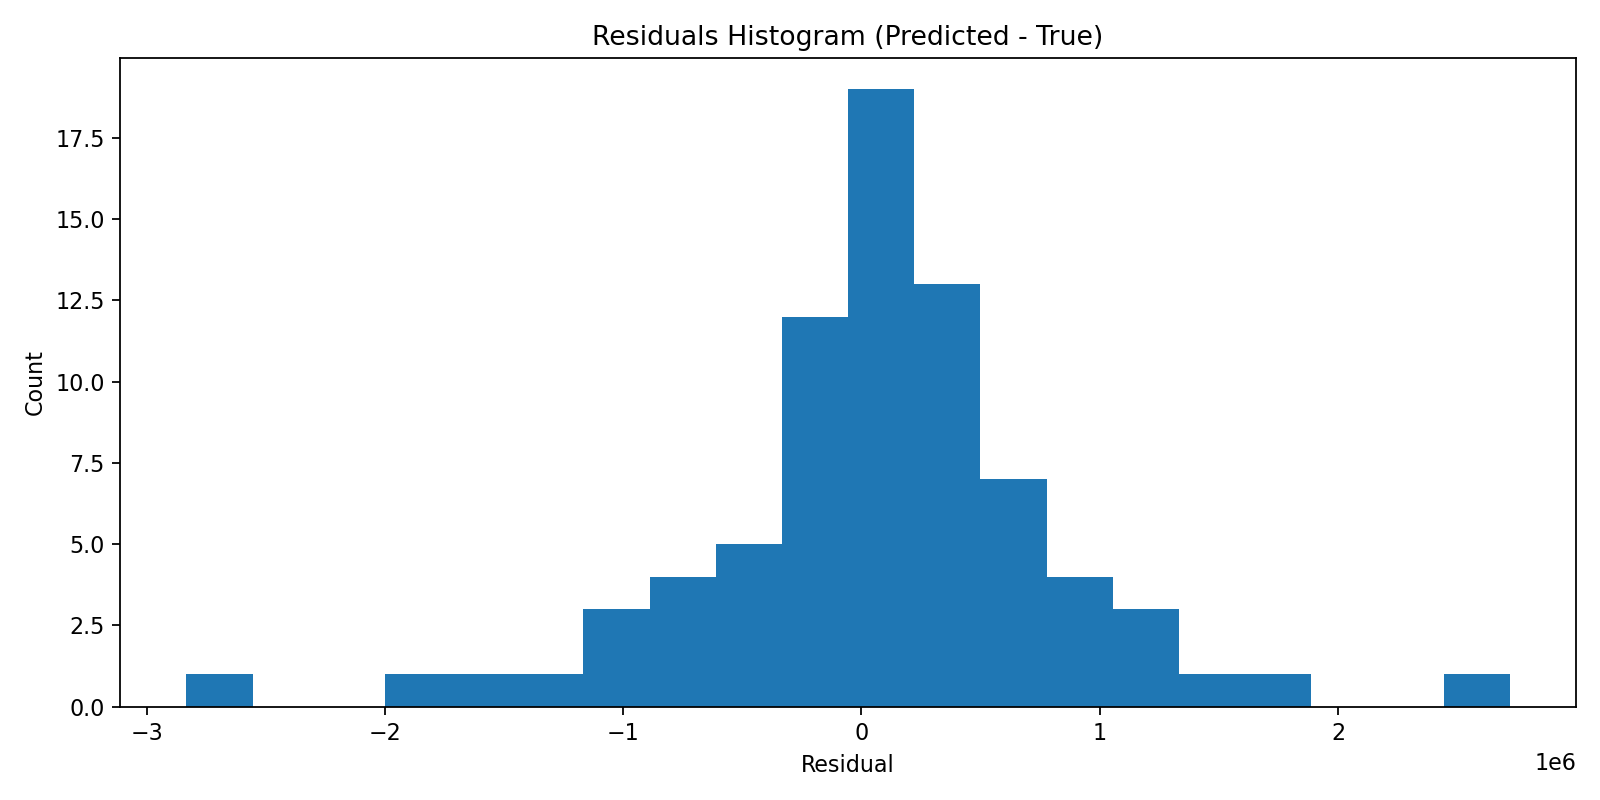
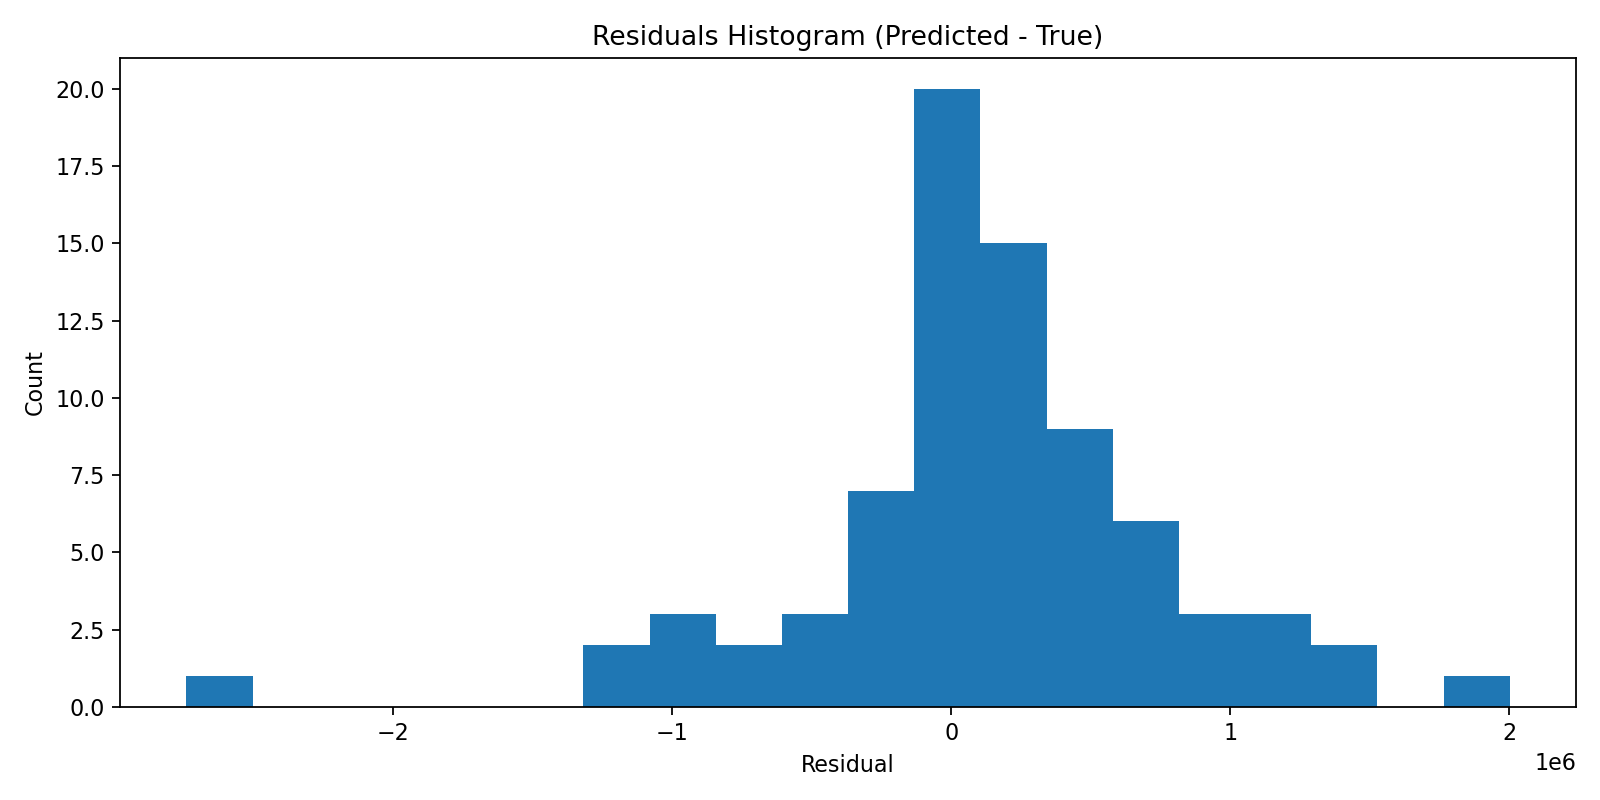
new model

diff --git a/XGboost.py b/XGboost.py
@@ -20,7 +20,7 @@ FEATURE_COLS = [
     "assists_s1", "assists_s2",
     "rebounds_s1", "rebounds_s2",
     #"steals_s1", "steals_s2",
-    "RPM_s1","RPM_s2",
+    #"RPM_s1","RPM_s2",
     "USG_s1","USG_s2",
     "3pts_made_s1", "3pts_made_s2",
     "3pts_attempted_s1", "3pts_attempted_s2",
